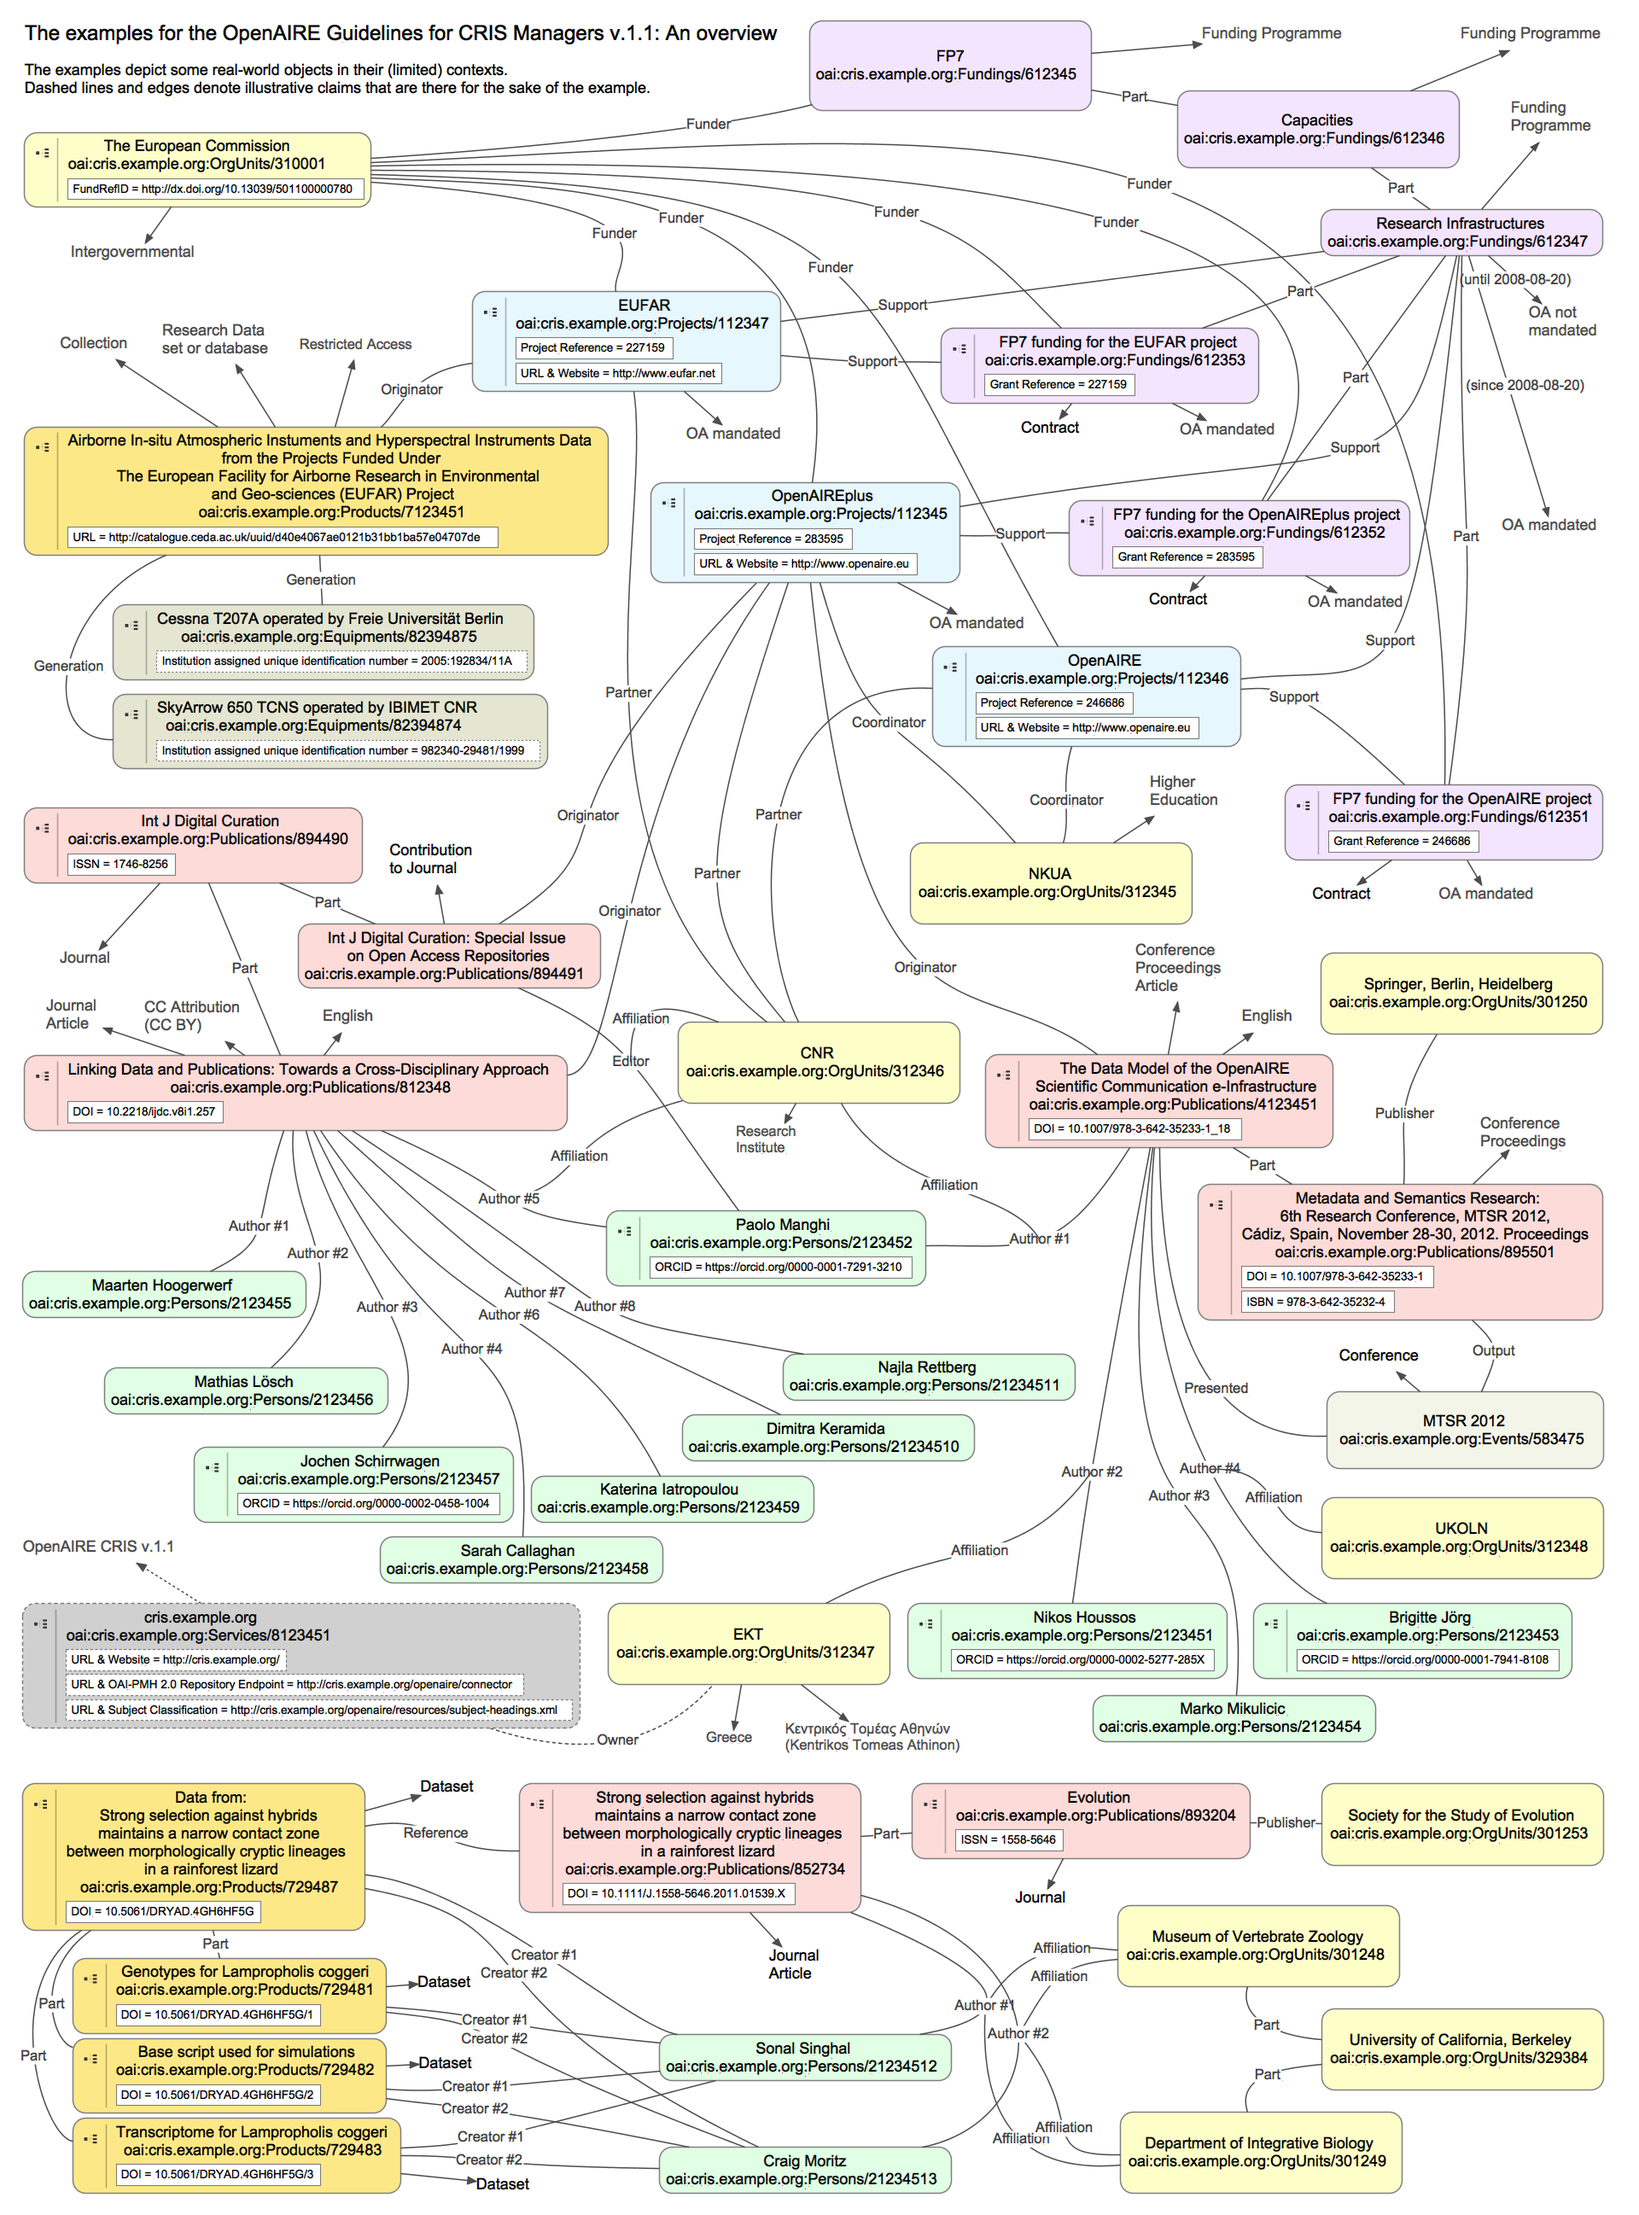
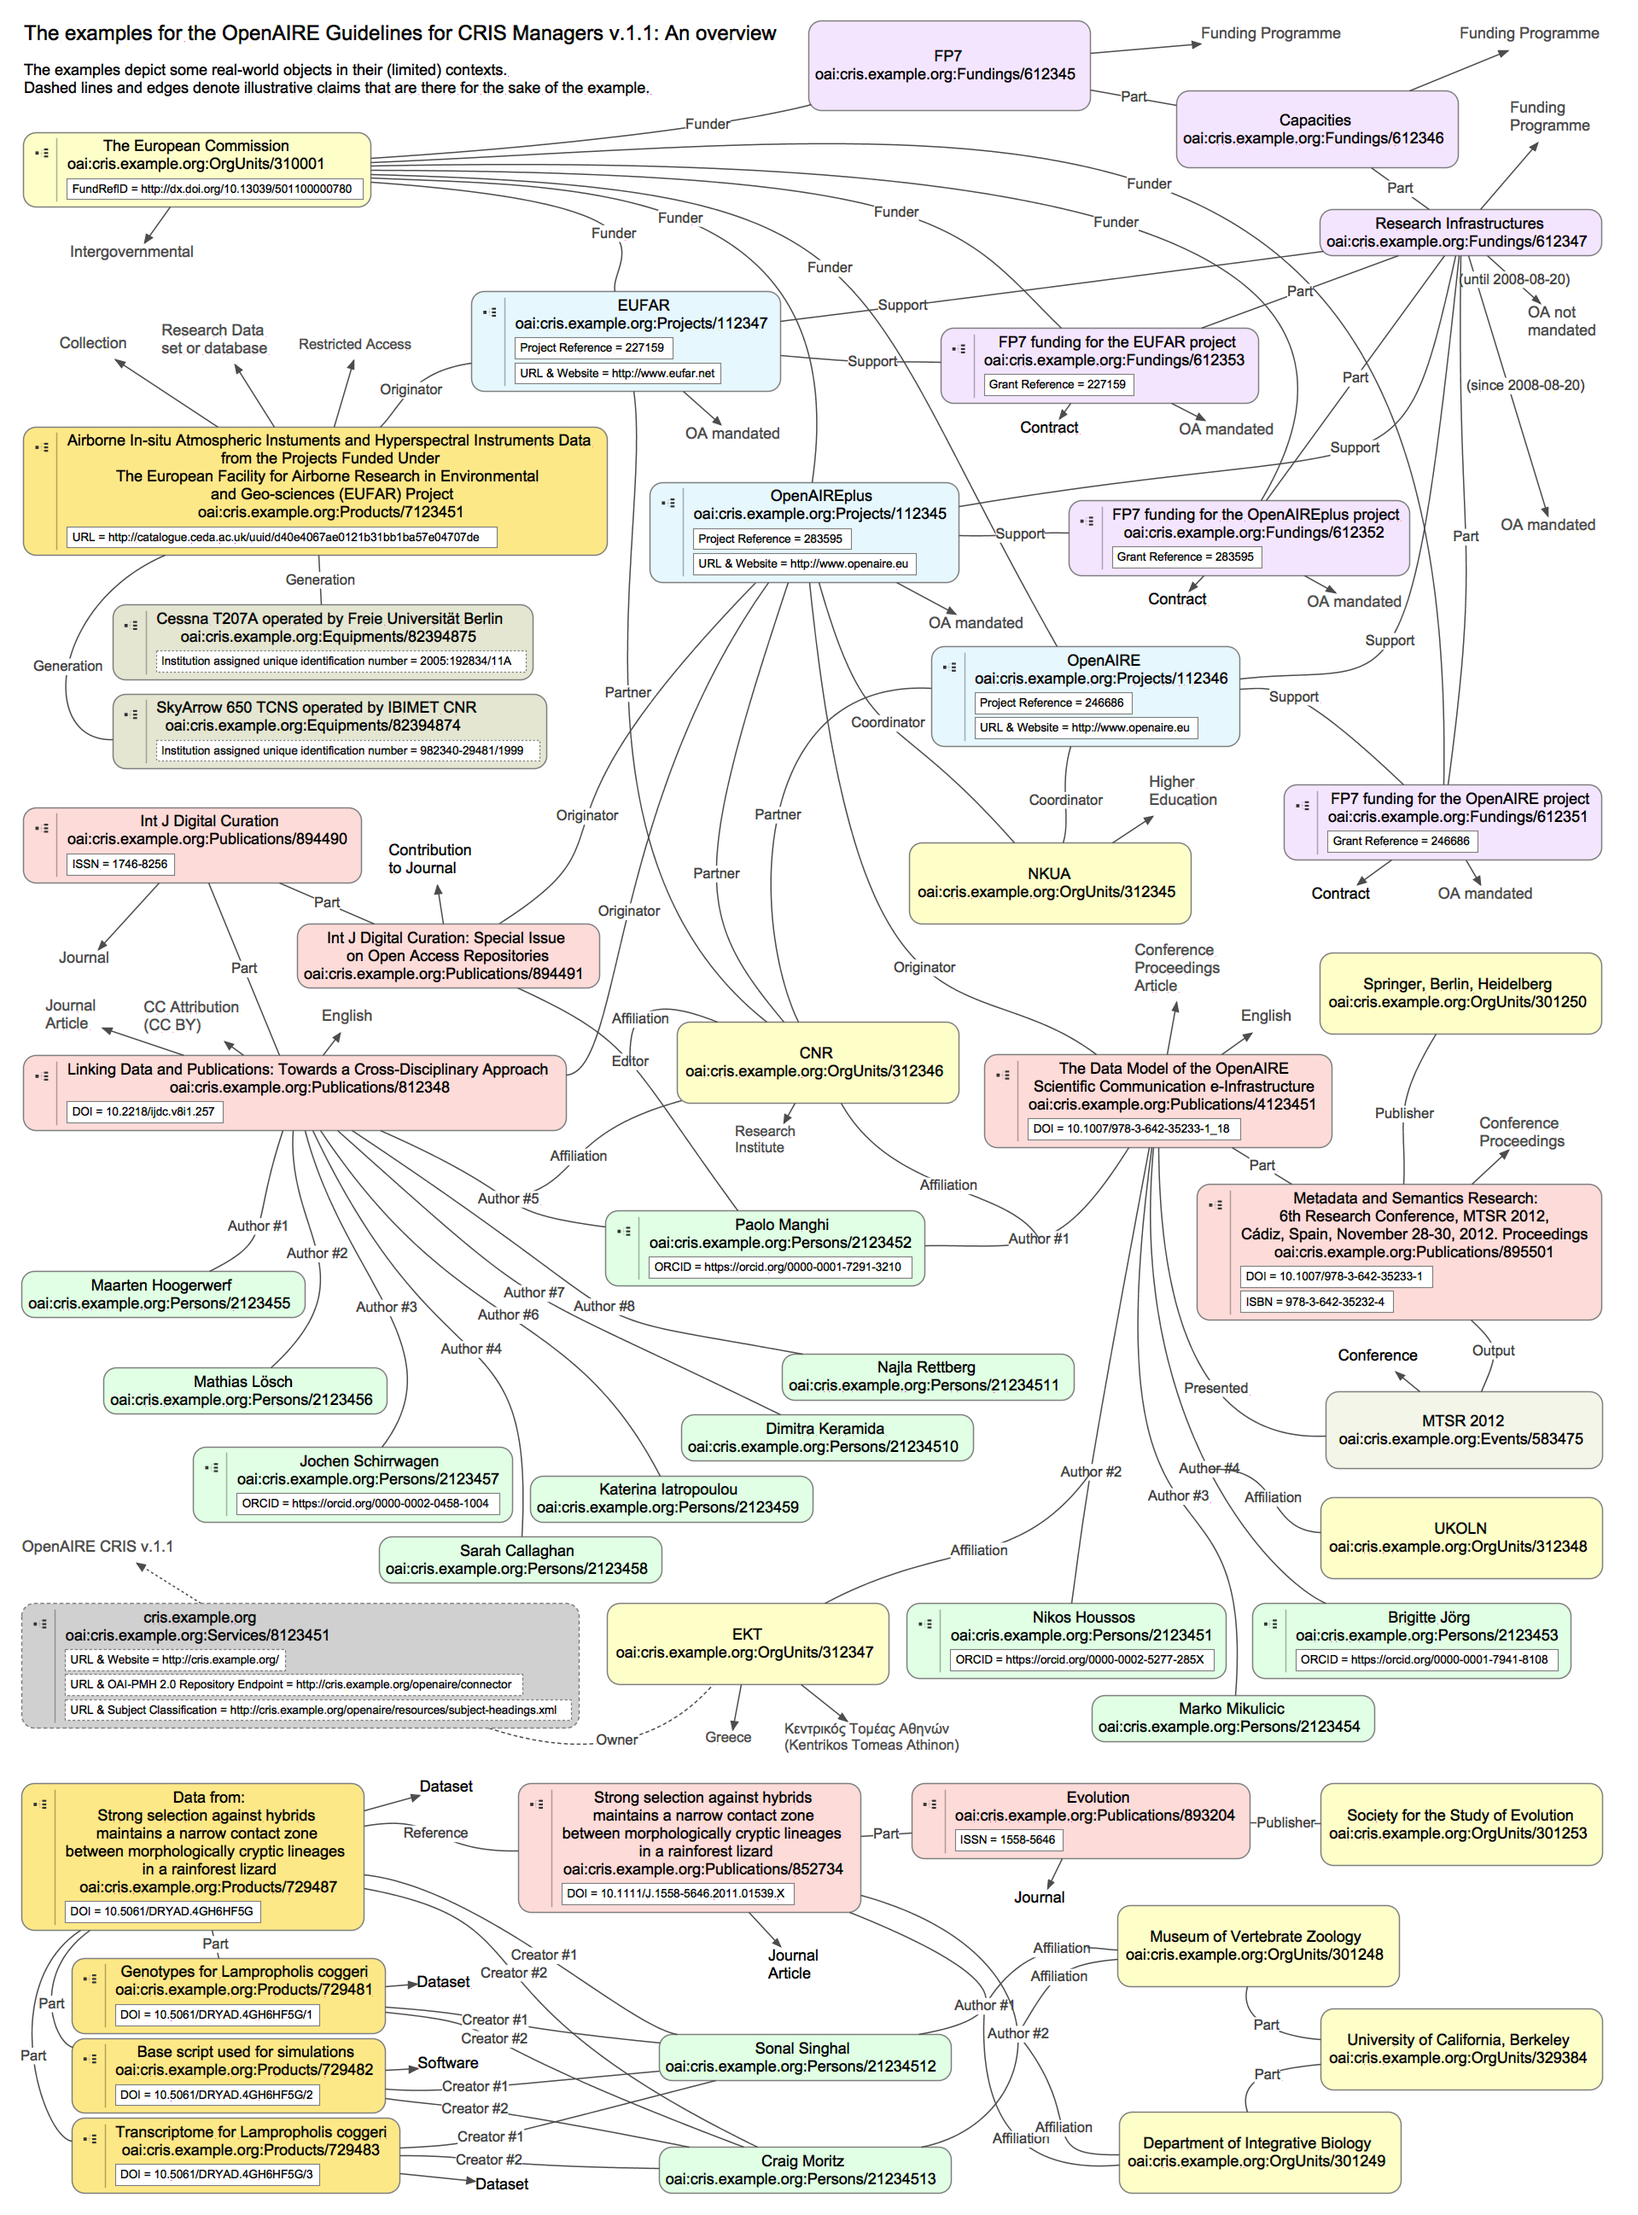
Corrected: the type of product "Base script used for simulations"
is software (not dataset)

diff --git a/docs/_illustrations/OpenAIRE-examples-map.vue b/docs/_illustrations/OpenAIRE-examples-map.vue
@@ -1,14 +1,14 @@
-<!-- Tufts VUE 3.3.0 concept-map (OpenAIRE-examples-map.vue) 2018-02-05 -->
+<!-- Tufts VUE 3.3.0 concept-map (OpenAIRE-examples-map.vue) 2018-02-09 -->
 <!-- Tufts VUE: http://vue.tufts.edu/ -->
 <!-- Do Not Remove: VUE mapping @version(1.1) jar:file:/Applications/VUE.localized/VUE.app/Contents/Resources/Java/VUE.jar!/tufts/vue/resources/lw_mapping_1_1.xml -->
-<!-- Do Not Remove: Saved date Mon Feb 05 07:14:20 CET 2018 by jdvorak on platform Mac OS X 10.13.3 in JVM 1.8.0_152-b16 -->
+<!-- Do Not Remove: Saved date Fri Feb 09 13:51:42 CET 2018 by jdvorak on platform Mac OS X 10.13.3 in JVM 1.8.0_152-b16 -->
 <!-- Do Not Remove: Saving version @(#)VUE: built October 8 2015 at 1658 by tomadm on Linux 2.6.32-504.23.4.el6.x86_64 i386 JVM 1.7.0_21-b11(bits=32) -->
 <?xml version="1.0" encoding="US-ASCII"?>
 <LW-MAP xmlns:xsi="http://www.w3.org/2001/XMLSchema-instance"
     xsi:noNamespaceSchemaLocation="none" ID="0"
     label="OpenAIRE-examples-map.vue" created="1434792177028" x="0.0"
     y="0.0" width="992.4211" height="1399.0116" strokeWidth="0.0" autoSized="false">
-    <resource referenceCreated="1517811260632" size="186377"
+    <resource referenceCreated="1518180702177" size="186314"
         spec="/Users/jdvorak/Documents/workspace/guidelines-cris-managers/docs/_illustrations/OpenAIRE-examples-map.vue"
         type="1" xsi:type="URLResource">
         <title>OpenAIRE-examples-map.vue</title>
@@ -1178,7 +1178,7 @@
         <ID2 xsi:type="text">89</ID2>
     </child>
     <child ID="93"
-        label="The examples depict some real-world objects in their &#xa;      (limited) contexts. Dashed lines and edges denote illustrative claims &#xa;      that are there for the sake of the example."
+        label="The examples depict some real-world objects in their &#xa;      (limited) contexts. Dashed lines and edges denote illustrative claims that are there for the sake of the example."
         layerID="1" created="1434799807095" x="202.47324" y="133.16626"
         width="501.0" height="44.0" strokeWidth="0.0" autoSized="false" xsi:type="text">
         <strokeColor>#404040</strokeColor>
@@ -1213,8 +1213,7 @@
 &lt;/html&gt;
 </richText>
         <label>The examples depict some real-world objects in their 
-      (limited) contexts. Dashed lines and edges denote illustrative claims 
-      that are there for the sake of the example.</label>
+      (limited) contexts. Dashed lines and edges denote illustrative claims that are there for the sake of the example.</label>
     </child>
     <child ID="94" label="Partner" layerID="1" created="1434800119995"
         x="656.24414" y="390.53467" width="126.7937" height="493.529"
@@ -1638,8 +1637,8 @@
         <ID2 xsi:type="text">128</ID2>
     </child>
     <child ID="135" label="         (since 2008-08-20)" layerID="1"
-        created="1435508805025" x="1301.1232" y="284.64355"
-        width="121.0" height="204.13428" strokeWidth="1.0"
+        created="1435508805025" x="1301.6232" y="284.64355"
+        width="120.0" height="204.13428" strokeWidth="1.0"
         autoSized="false" controlCount="0" arrowState="2" xsi:type="link">
         <strokeColor>#4C4C4C</strokeColor>
         <textColor>#404040</textColor>
@@ -2279,7 +2278,7 @@
         <ctrlPoint1 x="1194.1172" y="616.5732" xsi:type="point"/>
     </child>
     <child ID="179" label="Part" layerID="1" created="1517503878755"
-        x="1314.5768" y="284.64062" width="24.64978" height="414.2881"
+        x="1314.5768" y="284.64062" width="24.14978" height="414.2881"
         strokeWidth="1.0" autoSized="false" controlCount="2"
         arrowState="0" xsi:type="link">
         <strokeColor>#4C4C4C</strokeColor>
@@ -2726,7 +2725,7 @@
         <label>Conference</label>
     </child>
     <child ID="209" label="Output" layerID="1" created="1517514519919"
-        x="1332.5509" y="1115.7991" width="34.744507" height="57.115723"
+        x="1332.5509" y="1115.7991" width="34.244507" height="57.115723"
         strokeWidth="1.0" autoSized="false" controlCount="2"
         arrowState="0" xsi:type="link">
         <strokeColor>#4C4C4C</strokeColor>
@@ -2780,8 +2779,8 @@
         <shape arcwidth="20.0" archeight="20.0" xsi:type="roundRect"/>
     </child>
     <child ID="213" label="Publisher" layerID="1"
-        created="1517584140866" x="1257.259" y="892.25903"
-        width="49.031128" height="118.539795" strokeWidth="1.0"
+        created="1517584140866" x="1257.759" y="892.25903"
+        width="48.531128" height="118.539795" strokeWidth="1.0"
         autoSized="false" controlCount="2" arrowState="0" xsi:type="link">
         <strokeColor>#4C4C4C</strokeColor>
         <textColor>#404040</textColor>
@@ -3032,7 +3031,7 @@
         <shape arcwidth="20.0" archeight="20.0" xsi:type="roundRect"/>
     </child>
     <child ID="235" label="Part" layerID="1" created="1517670462252"
-        x="341.64926" y="1592.4043" width="21.0" height="22.789917"
+        x="342.14926" y="1592.4043" width="20.0" height="22.789917"
         strokeWidth="1.0" autoSized="false" controlCount="0"
         arrowState="0" xsi:type="link">
         <strokeColor>#4C4C4C</strokeColor>
@@ -3045,7 +3044,7 @@
         <ID2 xsi:type="node">229</ID2>
     </child>
     <child ID="236" label="Part" layerID="1" created="1517670471358"
-        x="213.59918" y="1592.4044" width="41.368652" height="92.289795"
+        x="214.09918" y="1592.4044" width="40.868652" height="92.289795"
         strokeWidth="1.0" autoSized="false" controlCount="2"
         arrowState="0" xsi:type="link">
         <strokeColor>#4C4C4C</strokeColor>
@@ -3060,7 +3059,7 @@
         <ctrlPoint1 x="225.82625" y="1681.4869" xsi:type="point"/>
     </child>
     <child ID="237" label="Part" layerID="1" created="1517670478776"
-        x="199.33493" y="1592.4044" width="48.258698" height="165.70166"
+        x="199.83493" y="1592.4044" width="47.758698" height="165.70166"
         strokeWidth="1.0" autoSized="false" controlCount="2"
         arrowState="0" xsi:type="link">
         <strokeColor>#4C4C4C</strokeColor>
@@ -3282,7 +3281,7 @@
     </child>
     <child ID="251" label="Author #1" layerID="1"
         created="1517671224669" x="846.94727" y="1578.0872"
-        width="129.93243" height="96.7229" strokeWidth="1.0"
+        width="129.43243" height="96.7229" strokeWidth="1.0"
         autoSized="false" controlCount="2" arrowState="0" xsi:type="link">
         <strokeColor>#4C4C4C</strokeColor>
         <textColor>#404040</textColor>
@@ -3297,7 +3296,7 @@
     </child>
     <child ID="252" label="Author #2" layerID="1"
         created="1517671265454" x="855.37604" y="1564.8381"
-        width="147.40326" height="197.93994" strokeWidth="1.0"
+        width="146.90326" height="197.93994" strokeWidth="1.0"
         autoSized="false" controlCount="2" arrowState="0" xsi:type="link">
         <strokeColor>#4C4C4C</strokeColor>
         <textColor>#404040</textColor>
@@ -3366,8 +3365,8 @@
 </richText>
         <label>Dataset</label>
     </child>
-    <child ID="261" label="Dataset" layerID="1" created="1517672472935"
-        x="510.1628" y="1689.6969" width="45.0" height="13.0"
+    <child ID="261" label="Software" layerID="1" created="1517672472935"
+        x="510.1628" y="1689.6969" width="51.0" height="21.0"
         strokeWidth="0.0" autoSized="false" xsi:type="text">
         <strokeColor>#404040</strokeColor>
         <textColor>#000000</textColor>
@@ -3387,12 +3386,12 @@
   &lt;/head&gt;
   &lt;body&gt;
     &lt;p color="#000000" style="color: #000000"&gt;
-      Dataset
+      Software
     &lt;/p&gt;
   &lt;/body&gt;
 &lt;/html&gt;
 </richText>
-        <label>Dataset</label>
+        <label>Software</label>
     </child>
     <child ID="262" label="Dataset" layerID="1" created="1517672477195"
         x="555.10504" y="1784.2781" width="45.0" height="14.0"
@@ -3422,9 +3421,9 @@
 </richText>
         <label>Dataset</label>
     </child>
-    <child ID="263" label="Journal &#xa;    &#xa;    &#xa;      Article"
-        layerID="1" created="1517672482119" x="783.8207" y="1605.7256"
-        width="47.0" height="30.0" strokeWidth="0.0" autoSized="false" xsi:type="text">
+    <child ID="263" label="Journal Article" layerID="1"
+        created="1517672482119" x="783.8207" y="1605.7256" width="47.0"
+        height="30.0" strokeWidth="0.0" autoSized="false" xsi:type="text">
         <strokeColor>#404040</strokeColor>
         <textColor>#000000</textColor>
         <font>SansSerif-plain-14</font>
@@ -3443,7 +3442,7 @@
   &lt;/head&gt;
   &lt;body&gt;
     &lt;p color="#000000" style="color: #000000"&gt;
-      Journal 
+      Journal
     &lt;/p&gt;
     &lt;p color="#000000" style="color: #000000"&gt;
       Article
@@ -3451,10 +3450,7 @@
   &lt;/body&gt;
 &lt;/html&gt;
 </richText>
-        <label>Journal 
-    
-    
-      Article</label>
+        <label>Journal Article</label>
     </child>
     <child ID="264" label="Journal" layerID="1" created="1517672489428"
         x="976.15826" y="1560.3698" width="44.0" height="15.0"
@@ -3511,15 +3507,15 @@
         <ID2 xsi:type="text">260</ID2>
     </child>
     <child ID="267" layerID="1" created="1517672528298" x="484.51523"
-        y="1697.0574" width="26.147583" height="2.520874"
+        y="1700.623" width="26.147583" height="1.9134521"
         strokeWidth="1.0" autoSized="false" controlCount="0"
         arrowState="2" xsi:type="link">
         <strokeColor>#4C4C4C</strokeColor>
         <textColor>#404040</textColor>
         <font>Arial-plain-11</font>
         <URIString>http://vue.tufts.edu/rdf/resource/5c5c3a98c0a8006c68078cdd2f836908</URIString>
-        <point1 x="485.01523" y="1699.0784"/>
-        <point2 x="510.1628" y="1697.5575"/>
+        <point1 x="485.01523" y="1702.0365"/>
+        <point2 x="510.1628" y="1701.123"/>
         <ID1 xsi:type="node">231</ID1>
         <ID2 xsi:type="text">261</ID2>
     </child>
@@ -3596,7 +3592,7 @@
         y="0.0" width="1.4E-45" height="1.4E-45" strokeWidth="0.0" autoSized="false">
         <URIString>http://vue.tufts.edu/rdf/resource/10595862c0a801c361bf61a0192370fd</URIString>
     </layer>
-    <userZoom>0.5890585819910296</userZoom>
+    <userZoom>0.5908257577370026</userZoom>
     <userOrigin x="-439.1433" y="39.585697"/>
     <presentationBackground>#202020</presentationBackground>
     <PathwayList currentPathway="0" revealerIndex="-1">
